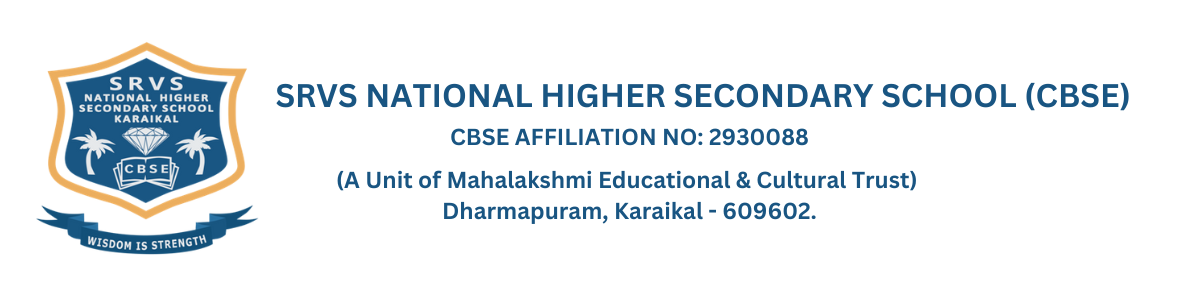
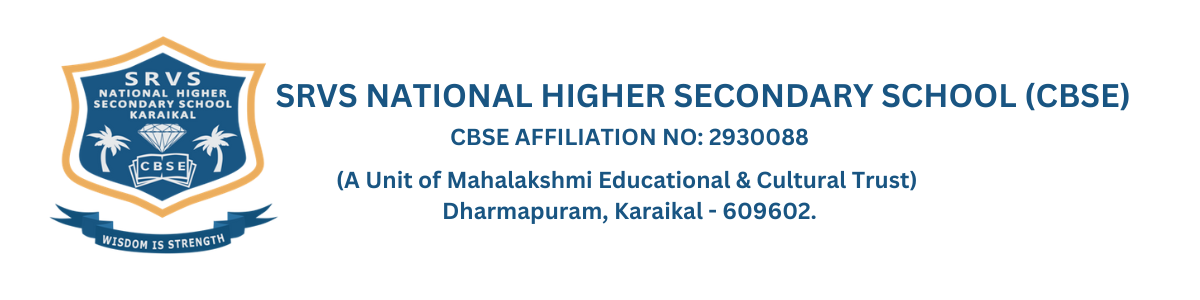
Add files via upload

Changed region(s): [[0.0308, 0.12, 0.2467, 0.87]]

diff --git a/index.html b/index.html
@@ -83,7 +83,7 @@
                 <li>
                   <a class="dropdown-item" href="./messages.html">Messages</a>
                 </li>
-                <li><a class="dropdown-item" href="./staff.html">Education team</a></li>
+                <li><a class="dropdown-item" href="./staff.html">Education Team</a></li>
                 <li><hr class="dropdown-divider" /></li>
                 <li><a class="dropdown-item" href="#">Photo Gallery</a></li>
                 <li>
@@ -96,70 +96,19 @@
       </div>
     </nav>
 
-    <!-- <nav class="navbar navbar-expand-lg ">
-        <a class="navbar-brand" href="#"><img src="./srvs_logo.jpg" alt="" id="logobrand" /></a>
-      
-       <button
-          class="navbar-toggler"
-          type="button"
-          data-bs-toggle="collapse"
-          data-bs-target="#navbarSupportedContent"
-          aria-controls="navbarSupportedContent"
-          aria-expanded="false"
-          aria-label="Toggle navigation"
-        >
-          <span class="navbar-toggler-icon"></span>
-        </button>
+    <!-- ***************************************************************************************************** -->
 
-       <div class="collapse navbar-collapse" id="navbarSupportedContent">
-          <ul class="navbar-nav me-auto mb-2 mb-lg-0">
-            <li class="nav-item">
-              <a class="nav-link" aria-current="page" href="./index.html"
-                >Home</a
-              >
-            </li>
-            <li class="nav-item">
-              <a class="nav-link" href="./academics.html">Academics</a>
-            </li>
-            <li class="nav-item">
-              <a class="nav-link links" href="" id="admisn">Admissions</a>
-            </li>
-            <li class="nav-item">
-              <a class="nav-link" href="./curriculum.html">Curriculum</a>
-            </li>
-            <li class="nav-item">
-              <a class="nav-link" href="./contactus.html">Contact Us</a>
-            </li>
-            <li class="nav-item dropdown">
-              <a
-                class="nav-link dropdown-toggle"
-                href="#"
-                role="button"
-                data-bs-toggle="dropdown"
-                aria-expanded="false"
-                >About
-              </a>
-              <ul class="dropdown-menu">
-                <li>
-                  <a class="dropdown-item" href="./about.html">About us</a>
-                </li>
-                <li>
-                  <a class="dropdown-item" href="./messages.html">Messages</a>
-                </li>
-                <li><a class="dropdown-item" href="./staff.html">Our Staffs</a></li>
-                <li><hr class="dropdown-divider" /></li>
-                <li><a class="dropdown-item" href="#">Photo Gallery</a></li>
-                <li>
-                  <a class="dropdown-item" href="#">Facilities</a>
-                </li>
-              </ul>
-            </li>
-          </ul>
-        </div>
-      </div>
-    </nav> -->
+ 
+<div class="modal" id="myModal">
+  <div class="modal-contents">
+    <span class="close">&times;</span>
+    <img src="./admsnbanner.png" id="admsnbnr" alt="">
+    <!-- <button id="navigateButton">Explore More</button> -->
+  </div>
+</div>
+<div class="background-content">
 
-
+</div>
  
 
     <!-- ***************************************************************************************************** -->

diff --git a/style.css b/style.css
@@ -7,16 +7,16 @@ html{
     height: 200px;
 }
 
-#logobrand{
+/* #logobrand{
     width: 100px;
     margin-left: 50px;
-}
+} */
 
  #toppart {
      width: 100%;
      height: 10px;
      padding: 10px 0 0px 0;
-     margin-bottom: 12%;
+     margin-bottom: 10%;
  }
 
 /* ---------------------------------------------- */
@@ -92,7 +92,7 @@ nav>div {
     float: left;
 }
 #runningNum{
-    /* margin-left: 200px; */
+    margin-left: 200px;
     padding: 100px 0 200px 0;
 }
 #runningNumt{
@@ -1054,6 +1054,79 @@ iframe{
     font-weight: 600;
  }
 
+/* ********************************************************************************************************************* */
+
+.modal {
+    display: none;
+    /* Hidden by default */
+    position: fixed;
+    /* Stay in place */
+    z-index: 1;
+    /* Sit on top */
+    left: 0;
+    top: 0;
+    width: 100%;
+    /* Full width */
+    height: 100%;
+    /* Full height */
+    overflow: auto;
+    /* Enable scroll if needed */
+    background-color: rgb(0, 0, 0);
+    /* Fallback color */
+    background-color: rgba(0, 0, 0, 0.4);
+    /* Black w/ opacity */
+}
+
+/* Modal Content */
+.modal-contents {
+    background-color: #fefefe;
+    margin: 15% auto;
+    /* 15% from the top and centered */
+    padding: 20px;
+    border: 1px solid #888;
+    width: 55%;
+    /* Could be more or less, depending on screen size */
+}
+
+/* Close Button */
+.close {
+    float: right;
+    font-size: 28px;
+    font-weight: bold;
+    font-size: 30px;
+    color: red;
+}
+
+.close:hover,
+.close:focus {
+    color: black;
+    text-decoration: none;
+    cursor: pointer;
+}
+
+#admsnbnr{
+    width: 100%;
+    height: 700px;
+}
+
+.background-content {
+    display: none;
+    position: absolute;
+    top: 0;
+    left: 0;
+    width: 100%;
+    height: 490%;
+    background-color: rgba(255, 255, 255, 0.7);
+    /* Semi-transparent white */
+    filter: blur(5px);
+    /* Apply blur effect */
+    z-index: 999;
+    /* Make sure it's behind the modal */
+    pointer-events: none;
+    /* Make sure clicks pass through */
+}
+
+/* ********************************************************************************************************************* */
 
 @media screen and (min-width: 990px) and (max-width:1100px){
 
@@ -1075,5 +1148,34 @@ iframe{
         margin-left: 200px;
         padding: 100px 0 200px 0;
     }
-
+    #logo {
+        width: 80%;
+        height: 200px;
+    }
+    #toppart {
+        width: 100%;
+        height: 10px;
+        padding: 10px 0 0px 0;
+        margin-bottom: 14%;
+    }
+    #runningNum {
+        /* margin-left: 200px; */
+        padding: 100px 0 200px 0;
+    }
+    .background-content {
+        display: none;
+        position: absolute;
+        top: 0;
+        left: 0;
+        width: 100%;
+        height: 455%;
+        background-color: rgba(255, 255, 255, 0.7);
+        /* Semi-transparent white */
+        filter: blur(5px);
+        /* Apply blur effect */
+        z-index: 999;
+        /* Make sure it's behind the modal */
+        pointer-events: none;
+        /* Make sure clicks pass through */
+    }
 }

diff --git a/index.js b/index.js
@@ -571,7 +571,6 @@ function convertTime(time) {
 // **********************************************************************
 
 
-
  function validateForm() {
         var form = document.getElementById("admissionForm");
         var inputs = form.getElementsByTagName("input");
@@ -606,3 +605,26 @@ redi.onclick=()=>{
 
   // *******************************************************************************************
 
+
+
+document.addEventListener("DOMContentLoaded", function() {
+  setTimeout(function(){
+    var modal = document.getElementById("myModal");
+    modal.style.display = "block";
+
+    var backgroundContent = document.getElementsByClassName("background-content")[0];
+    backgroundContent.style.display = "block"; // Show background content
+
+    var closeButton = document.getElementsByClassName("close")[0];
+    closeButton.onclick = function() {
+      modal.style.display = "none";
+      backgroundContent.style.display = "none"; // Hide background content when modal is closed
+    };
+
+    var navigateButton = document.getElementById("navigateButton");
+    navigateButton.onclick = function() {
+      // Redirect to other page
+      window.location.href = "other_page.html";
+    };
+  }, 2000); 
+});

diff --git a/about.html b/about.html
@@ -83,7 +83,7 @@
                 <li>
                   <a class="dropdown-item" href="./messages.html">Messages</a>
                 </li>
-                <li><a class="dropdown-item" href="./staff.html">Education team</a></li>
+                <li><a class="dropdown-item" href="./staff.html">Education Team</a></li>
                 <li><hr class="dropdown-divider" /></li>
                 <li><a class="dropdown-item" href="#">Photo Gallery</a></li>
                 <li>

diff --git a/academics.html b/academics.html
@@ -83,7 +83,7 @@
                 <li>
                   <a class="dropdown-item" href="./messages.html">Messages</a>
                 </li>
-                <li><a class="dropdown-item" href="./staff.html">Education team</a></li>
+                <li><a class="dropdown-item" href="./staff.html">Education Team</a></li>
                 <li><hr class="dropdown-divider" /></li>
                 <li><a class="dropdown-item" href="#">Photo Gallery</a></li>
                 <li>

diff --git a/admission.html b/admission.html
@@ -83,7 +83,7 @@
                 <li>
                   <a class="dropdown-item" href="./messages.html">Messages</a>
                 </li>
-                <li><a class="dropdown-item" href="./staff.html">Education team</a></li>
+                <li><a class="dropdown-item" href="./staff.html">Education Team</a></li>
                 <li><hr class="dropdown-divider" /></li>
                 <li><a class="dropdown-item" href="#">Photo Gallery</a></li>
                 <li>

diff --git a/contactus.html b/contactus.html
@@ -84,7 +84,7 @@
                 <li>
                   <a class="dropdown-item" href="./messages.html">Messages</a>
                 </li>
-                <li><a class="dropdown-item" href="./staff.html">Education team</a></li>
+                <li><a class="dropdown-item" href="./staff.html">Education Team</a></li>
                 <li><hr class="dropdown-divider" /></li>
                 <li><a class="dropdown-item" href="#">Photo Gallery</a></li>
                 <li>

diff --git a/curriculum.html b/curriculum.html
@@ -84,7 +84,7 @@
                 <li>
                   <a class="dropdown-item" href="./messages.html">Messages</a>
                 </li>
-                <li><a class="dropdown-item" href="./staff.html">Education team</a></li>
+                <li><a class="dropdown-item" href="./staff.html">Education Team</a></li>
                 <li><hr class="dropdown-divider" /></li>
                 <li><a class="dropdown-item" href="#">Photo Gallery</a></li>
                 <li>

diff --git a/messages.html b/messages.html
@@ -83,7 +83,7 @@
                 <li>
                   <a class="dropdown-item" href="./messages.html">Messages</a>
                 </li>
-                <li><a class="dropdown-item" href="./staff.html">Education team</a></li>
+                <li><a class="dropdown-item" href="./staff.html">Education Team</a></li>
                 <li><hr class="dropdown-divider" /></li>
                 <li><a class="dropdown-item" href="#">Photo Gallery</a></li>
                 <li>

diff --git a/publicdisclosure.html b/publicdisclosure.html
@@ -83,7 +83,7 @@
                 <li>
                   <a class="dropdown-item" href="./messages.html">Messages</a>
                 </li>
-                <li><a class="dropdown-item" href="./staff.html">Education team</a></li>
+                <li><a class="dropdown-item" href="./staff.html">Education Team</a></li>
                 <li><hr class="dropdown-divider" /></li>
                 <li><a class="dropdown-item" href="#">Photo Gallery</a></li>
                 <li>

diff --git a/staff.html b/staff.html
@@ -83,7 +83,7 @@
                 <li>
                   <a class="dropdown-item" href="./messages.html">Messages</a>
                 </li>
-                <li><a class="dropdown-item" href="./staff.html">Education team</a></li>
+                <li><a class="dropdown-item" href="./staff.html">Education Team</a></li>
                 <li><hr class="dropdown-divider" /></li>
                 <li><a class="dropdown-item" href="#">Photo Gallery</a></li>
                 <li>
